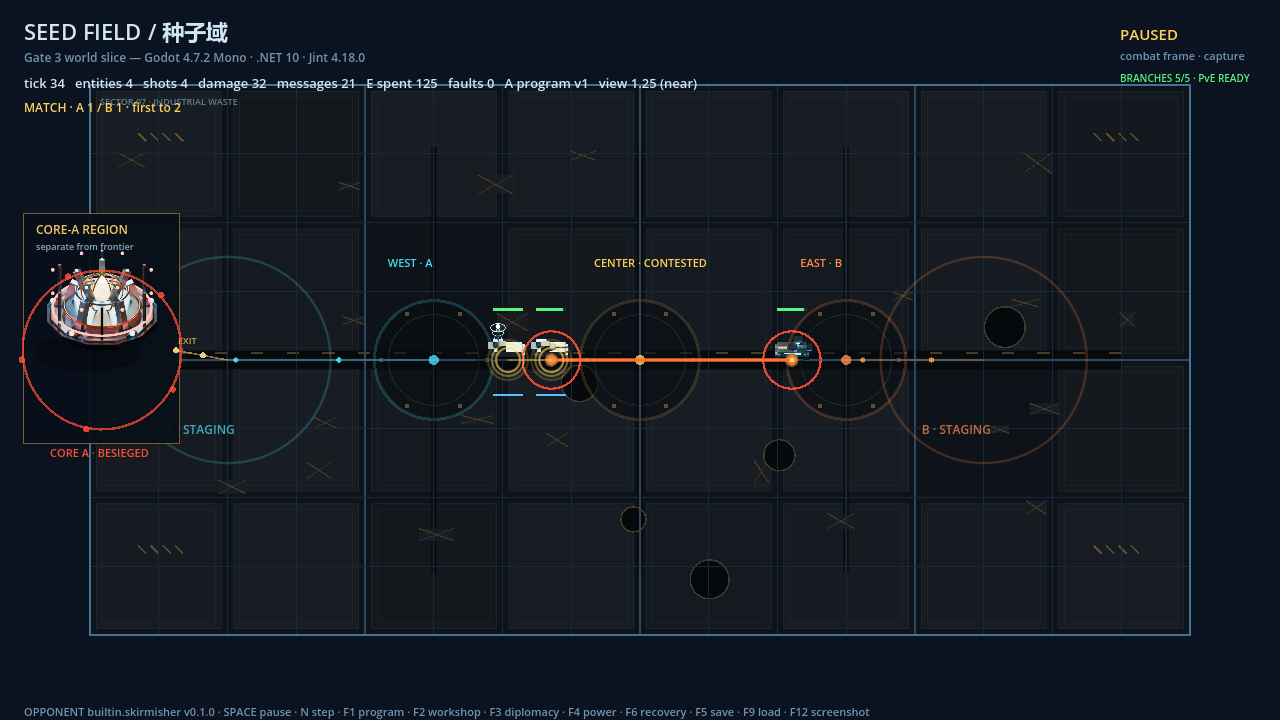
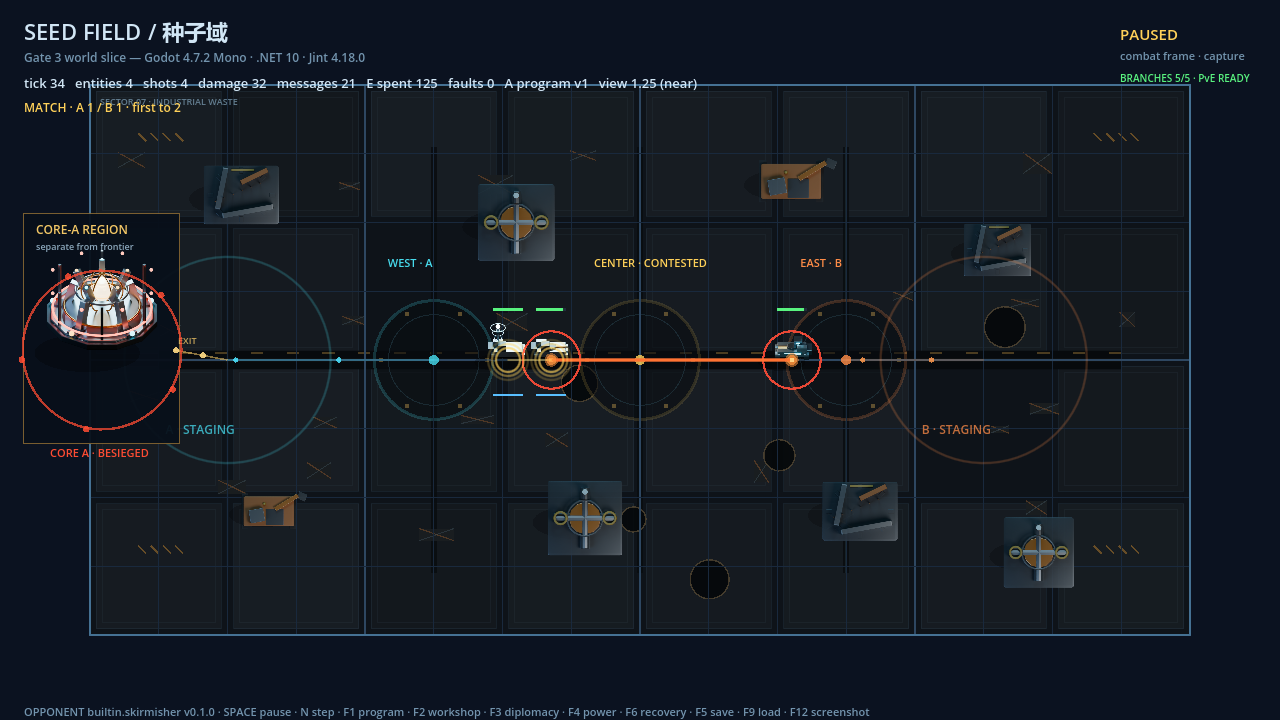
feat(game): SeedField 世界道具图层与 Main 性能样本
Draw topdown world props on the frontier, split the world visuals out of Main.Presentation to keep the file cap, and record the final Main 10/50/100 visual benchmark on the real render path.

diff --git a/game/SeedField.Game/Scripts/Main.WorldVisuals.cs b/game/SeedField.Game/Scripts/Main.WorldVisuals.cs
@@ -1,0 +1,183 @@
+using Godot;
+using SeedField.Simulation;
+
+namespace SeedField.Game;
+
+public partial class Main
+{
+    private void DrawWorldProps()
+    {
+        if (_classicVisuals)
+        {
+            return;
+        }
+
+        var props = new (string Name, Vec2 Position, float Scale)[]
+        {
+            ("ruin_block", new Vec2(2_200, 1_600), 0.38f),
+            ("pipe_junction", new Vec2(6_200, 2_000), 0.36f),
+            ("wreck_hauler", new Vec2(10_200, 1_400), 0.38f),
+            ("ruin_block", new Vec2(13_200, 2_400), 0.34f),
+            ("wreck_hauler", new Vec2(2_600, 6_200), 0.32f),
+            ("pipe_junction", new Vec2(7_200, 6_300), 0.35f),
+            ("ruin_block", new Vec2(11_200, 6_200), 0.38f),
+            ("pipe_junction", new Vec2(13_800, 6_800), 0.33f),
+        };
+
+        foreach (var prop in props)
+        {
+            var frame = _worldCatalog.Get(prop.Name);
+            if (frame is null)
+            {
+                continue;
+            }
+
+            var size = frame.Footprint * prop.Scale * _zoom;
+            var position = Map(prop.Position);
+            var rect = new Rect2(
+                position - frame.Pivot * size,
+                new Vector2(size, size));
+            VisualDraw.Ellipse(
+                this,
+                position + new Vector2(-size * 0.08f, size * 0.04f),
+                size * 0.42f,
+                size * 0.16f,
+                new Color(0f, 0f, 0f, 0.22f));
+            DrawTextureRect(
+                frame.Diffuse,
+                rect,
+                false,
+                new Color(0.72f, 0.76f, 0.80f, 0.88f));
+        }
+    }
+
+    private void DrawWorldBackdrop()
+    {
+        WorldBackdrop.Draw(
+            this,
+            Map,
+            MapScale,
+            _world.ControlPoints.Values
+                .Select(point => (point.Position, point.RadiusMm, point.OwnerCivilizationId))
+                .ToList());
+    }
+
+    private bool GridClosed(string civilizationId) =>
+        !_world.PowerGridStates.TryGetValue(
+            ("frontier", civilizationId),
+            out var grid) ||
+        !grid.BreakerOpen;
+
+    private void DrawPresentationNetworks()
+    {
+        var frontier = _world.Regions["frontier"];
+        NetworkVisual.Draw(
+            this,
+            Map,
+            _world.ControlPoints.Values
+                .Select(point => (point.Position, point.OwnerCivilizationId))
+                .ToList(),
+            frontier.GetEnergy("A") > 0 && GridClosed("A"),
+            frontier.GetEnergy("B") > 0 && GridClosed("B"),
+            _world.Tick,
+            _tacticalVisible);
+    }
+
+    private void DrawPresentationEntities()
+    {
+        var snapshots = _visibleEntities;
+
+        if (_tacticalVisible)
+        {
+            TacticalOverlay.DrawEntityRanges(this, snapshots, Map, MapScale);
+            TacticalOverlay.DrawControlPointRadii(
+                this,
+                _world.ControlPoints.Values.Select(point => (
+                    point.Position,
+                    point.RadiusMm)),
+                Map,
+                MapScale);
+        }
+
+        foreach (var entity in snapshots)
+        {
+            _entityVisual.Draw(
+                this,
+                entity,
+                Map(entity.Position),
+                FacingFor(entity.EntityId),
+                _debugVisible,
+                _debugVisible,
+                _world.Tick,
+                MovingFor(entity.EntityId),
+                HitFlashFor(entity.EntityId),
+                _zoom,
+                DetailTier != "far");
+        }
+
+        if (_tacticalVisible)
+        {
+            TacticalOverlay.DrawIds(this, snapshots, Map);
+        }
+    }
+
+    private void DrawPresentationCore()
+    {
+        var snapshot = CoreRecoveryDiagnosticsBuilder.Build(_world, "A");
+        var state = CoreVisualStateRules.Classify(
+            snapshot,
+            _world.Tick,
+            _bootstrapUntilTick);
+        if (state == CoreVisualState.Absent)
+        {
+            return;
+        }
+
+        // The core lives in its own region (core-a). Show it in a separate
+        // region panel and connect it to the frontier staging exit; never place
+        // the core body itself on frontier coordinates.
+        var origin = new Vector2(24, 214);
+        DrawRect(new Rect2(origin, new Vector2(156, 230)), new Color(0.03f, 0.06f, 0.10f, 0.94f));
+        DrawRect(new Rect2(origin, new Vector2(156, 230)), new Color(0.55f, 0.42f, 0.20f, 0.85f), false, 1f);
+        DrawString(
+            ThemeDB.FallbackFont,
+            origin + new Vector2(12, 20),
+            "CORE-A REGION",
+            HorizontalAlignment.Left,
+            -1,
+            12,
+            new Color(0.95f, 0.78f, 0.40f));
+        DrawString(
+            ThemeDB.FallbackFont,
+            origin + new Vector2(12, 36),
+            "separate from frontier",
+            HorizontalAlignment.Left,
+            -1,
+            9,
+            new Color(0.55f, 0.66f, 0.74f));
+
+        var corePosition = origin + new Vector2(78, 136);
+        var exit = Map(Scenarios.AStagingPosition);
+        NetworkVisual.DrawCoreExit(
+            this,
+            origin + new Vector2(150, 136),
+            exit,
+            snapshot.EnergyReserve > 0,
+            _world.Tick);
+        DrawString(
+            ThemeDB.FallbackFont,
+            origin + new Vector2(154, 130),
+            "EXIT",
+            HorizontalAlignment.Left,
+            -1,
+            9,
+            new Color(0.95f, 0.78f, 0.40f, 0.80f));
+        _coreVisual.Draw(
+            this,
+            corePosition,
+            state,
+            _world.Tick,
+            _debugVisible,
+            _zoom);
+    }
+}

diff --git a/game/SeedField.Game/Scripts/Main.Presentation.cs b/game/SeedField.Game/Scripts/Main.Presentation.cs
@@ -11,6 +11,7 @@ public partial class Main
     private readonly HashSet<long> _visibleEntityIds = new();
     private readonly VisualEffectFeed _effects = new();
     private VisualAssetCatalog _visualCatalog = null!;
+    private VisualAssetCatalog _worldCatalog = null!;
     private EntityVisual _entityVisual = null!;
     private CoreVisual _coreVisual = null!;
     private long _bootstrapUntilTick;
@@ -43,6 +44,7 @@ public partial class Main
         }
 
         _visualCatalog = VisualAssetCatalog.Load();
+        _worldCatalog = VisualAssetCatalog.Load("topdown");
         _entityVisual = new EntityVisual(_visualCatalog);
         _coreVisual = new CoreVisual(_visualCatalog);
         UpdateFacing();
@@ -179,136 +181,6 @@ public partial class Main
 
     private bool HitFlashFor(long entityId) =>
         _hitUntil.TryGetValue(entityId, out var until) && _world.Tick < until;
-
-    private void DrawWorldBackdrop()
-    {
-        WorldBackdrop.Draw(
-            this,
-            Map,
-            MapScale,
-            _world.ControlPoints.Values
-                .Select(point => (point.Position, point.RadiusMm, point.OwnerCivilizationId))
-                .ToList());
-    }
-
-    private bool GridClosed(string civilizationId) =>
-        !_world.PowerGridStates.TryGetValue(
-            ("frontier", civilizationId),
-            out var grid) ||
-        !grid.BreakerOpen;
-
-    private void DrawPresentationNetworks()
-    {
-        var frontier = _world.Regions["frontier"];
-        NetworkVisual.Draw(
-            this,
-            Map,
-            _world.ControlPoints.Values
-                .Select(point => (point.Position, point.OwnerCivilizationId))
-                .ToList(),
-            frontier.GetEnergy("A") > 0 && GridClosed("A"),
-            frontier.GetEnergy("B") > 0 && GridClosed("B"),
-            _world.Tick,
-            _tacticalVisible);
-    }
-
-    private void DrawPresentationEntities()
-    {
-        var snapshots = _visibleEntities;
-
-        if (_tacticalVisible)
-        {
-            TacticalOverlay.DrawEntityRanges(this, snapshots, Map, MapScale);
-            TacticalOverlay.DrawControlPointRadii(
-                this,
-                _world.ControlPoints.Values.Select(point => (
-                    point.Position,
-                    point.RadiusMm)),
-                Map,
-                MapScale);
-        }
-
-        foreach (var entity in snapshots)
-        {
-            _entityVisual.Draw(
-                this,
-                entity,
-                Map(entity.Position),
-                FacingFor(entity.EntityId),
-                _debugVisible,
-                _debugVisible,
-                _world.Tick,
-                MovingFor(entity.EntityId),
-                HitFlashFor(entity.EntityId),
-                _zoom,
-                DetailTier != "far");
-        }
-
-        if (_tacticalVisible)
-        {
-            TacticalOverlay.DrawIds(this, snapshots, Map);
-        }
-    }
-
-    private void DrawPresentationCore()
-    {
-        var snapshot = CoreRecoveryDiagnosticsBuilder.Build(_world, "A");
-        var state = CoreVisualStateRules.Classify(
-            snapshot,
-            _world.Tick,
-            _bootstrapUntilTick);
-        if (state == CoreVisualState.Absent)
-        {
-            return;
-        }
-
-        // The core lives in its own region (core-a). Show it in a separate
-        // region panel and connect it to the frontier staging exit; never place
-        // the core body itself on frontier coordinates.
-        var origin = new Vector2(24, 214);
-        DrawRect(new Rect2(origin, new Vector2(156, 230)), new Color(0.03f, 0.06f, 0.10f, 0.94f));
-        DrawRect(new Rect2(origin, new Vector2(156, 230)), new Color(0.55f, 0.42f, 0.20f, 0.85f), false, 1f);
-        DrawString(
-            ThemeDB.FallbackFont,
-            origin + new Vector2(12, 20),
-            "CORE-A REGION",
-            HorizontalAlignment.Left,
-            -1,
-            12,
-            new Color(0.95f, 0.78f, 0.40f));
-        DrawString(
-            ThemeDB.FallbackFont,
-            origin + new Vector2(12, 36),
-            "separate from frontier",
-            HorizontalAlignment.Left,
-            -1,
-            9,
-            new Color(0.55f, 0.66f, 0.74f));
-
-        var corePosition = origin + new Vector2(78, 136);
-        var exit = Map(Scenarios.AStagingPosition);
-        NetworkVisual.DrawCoreExit(
-            this,
-            origin + new Vector2(150, 136),
-            exit,
-            snapshot.EnergyReserve > 0,
-            _world.Tick);
-        DrawString(
-            ThemeDB.FallbackFont,
-            origin + new Vector2(154, 130),
-            "EXIT",
-            HorizontalAlignment.Left,
-            -1,
-            9,
-            new Color(0.95f, 0.78f, 0.40f, 0.80f));
-        _coreVisual.Draw(
-            this,
-            corePosition,
-            state,
-            _world.Tick,
-            _debugVisible,
-            _zoom);
-    }
 
     private void DrawPresentationDebug()
     {

diff --git a/game/SeedField.Game/Scripts/Main.Draw.cs b/game/SeedField.Game/Scripts/Main.Draw.cs
@@ -15,6 +15,11 @@ public partial class Main : Node2D
         }
 
         DrawGrid();
+        if (!_classicVisuals)
+        {
+            DrawWorldProps();
+        }
+
         DrawStagingZones();
         if (!_classicVisuals)
         {
